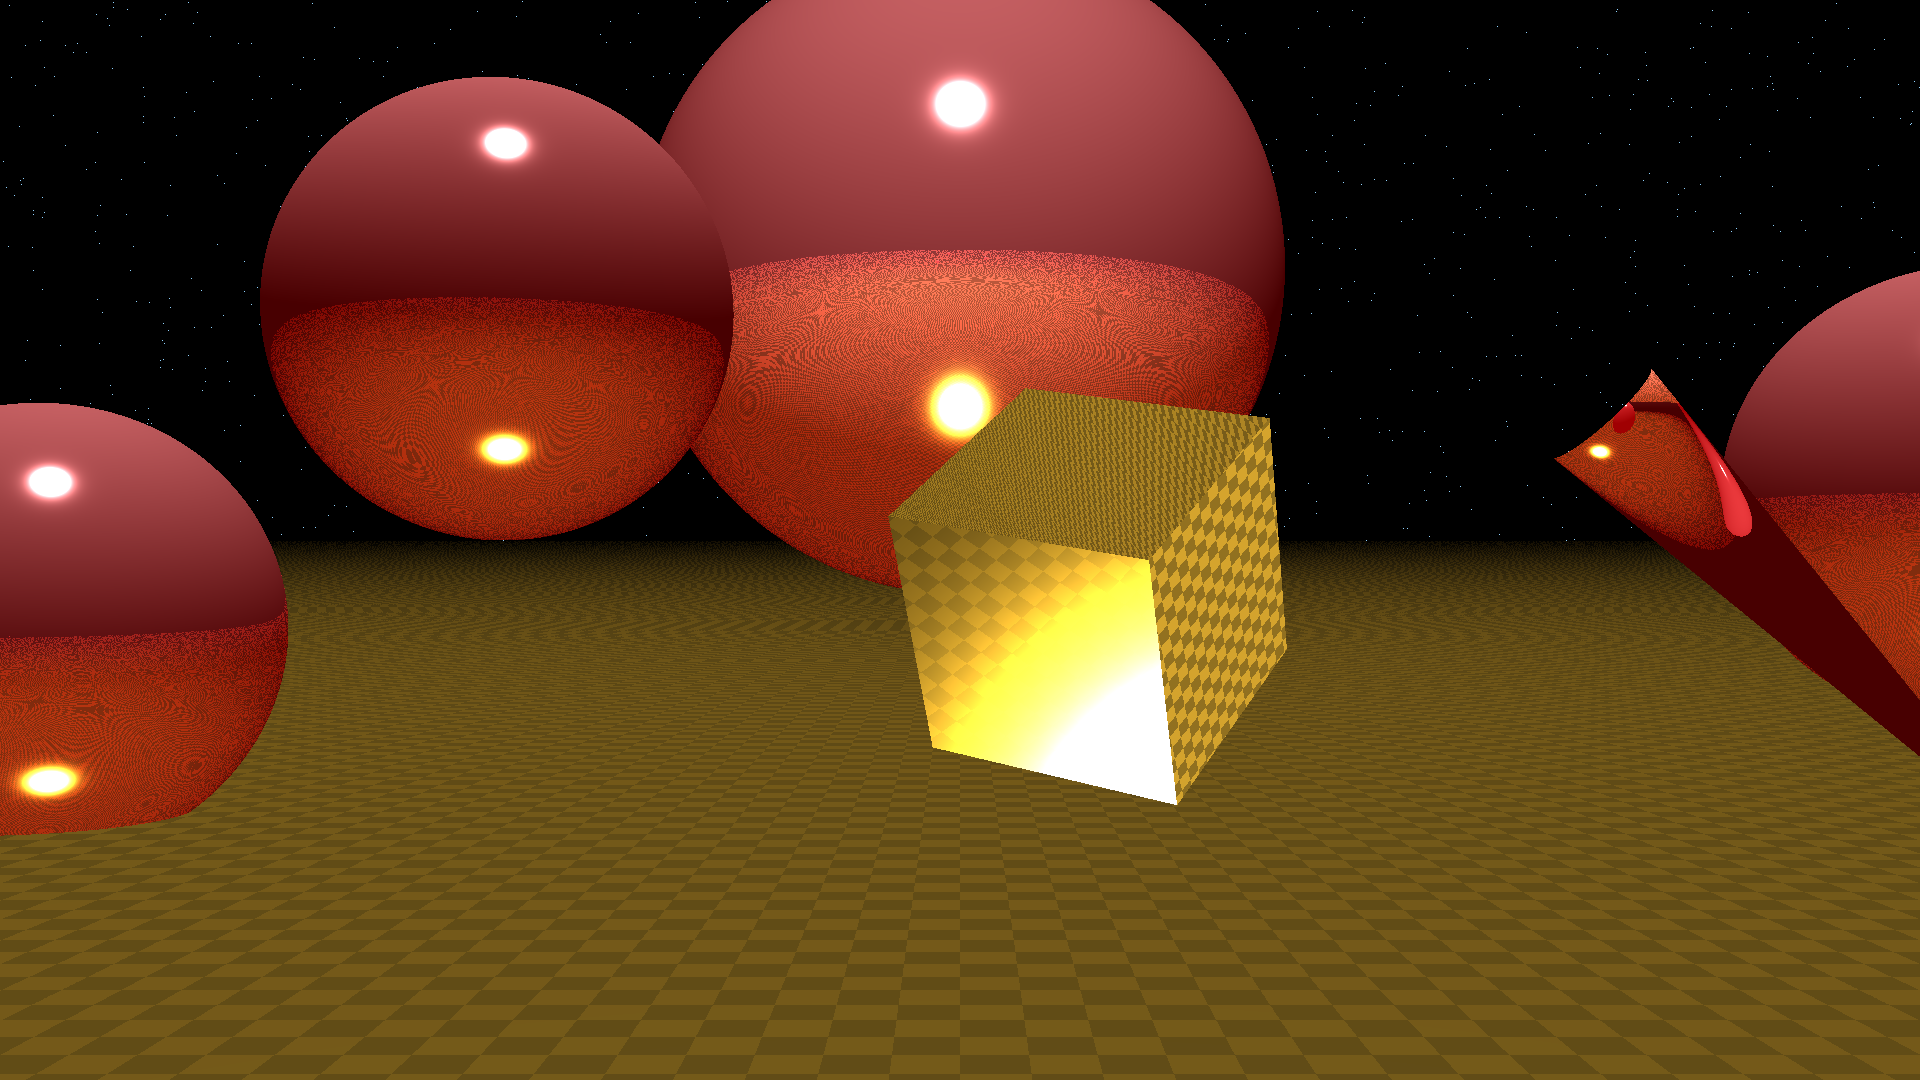
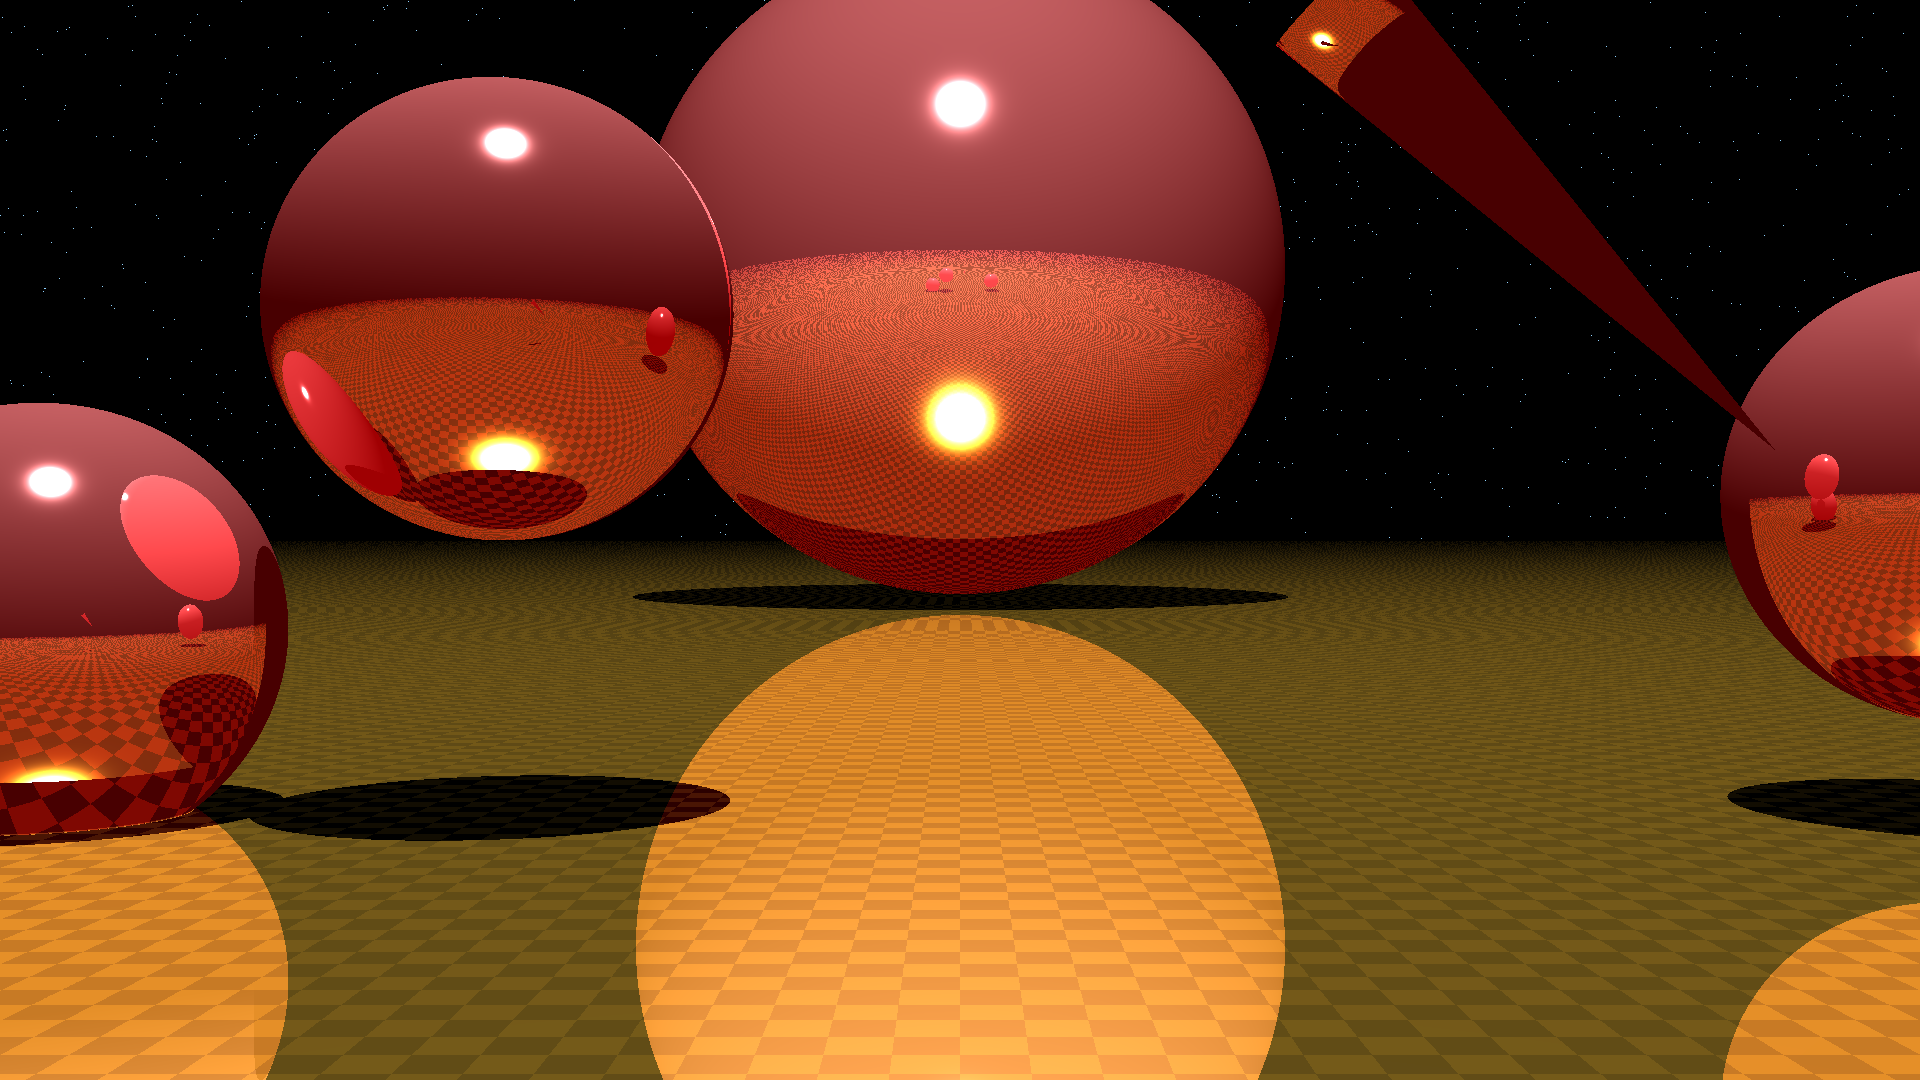
Reflections working correclty

diff --git a/src/main/Renderer.java b/src/main/Renderer.java
@@ -16,10 +16,10 @@ import java.util.Random;
 
 public class Renderer {
     private final double LIGHTSOURCEFACTOR = 0.1; // or a bit of contrast
-    private final double EPSILON = 700; // the difference that will be subtracted for shadowing
-    private final int MAXRECURSELEVEL = 1; // TODO: move to SDL parameter
+    private final double EPSILON = 0.01; // the difference that will be subtracted for shadowing
+    private final int MAXRECURSELEVEL = 5; // TODO: move to SDL parameter
     private final double DW = 0.1; // width lightbeam coming from source
-    private final boolean shadowsEnabled = false;
+    private final boolean shadowsEnabled = true;
 
     private final JFrame frame;
     private final double focallength, screenWidth, screenHeight;
@@ -222,7 +222,7 @@ public class Renderer {
         }
 
         // shadows
-        Vector start = Utility.subtract(hitpoint, Utility.multiplyElementWise(EPSILON, new Vector(normalVector)));
+        Vector start = Utility.sum(hitpoint, Utility.multiplyElementWise(EPSILON, new Vector(normalVector)));
 
         // for each lightsource
         for (Map.Entry<Vector, double[]> lightsource : scene.getLightsources().entrySet()) {
@@ -281,9 +281,6 @@ public class Renderer {
                 // calculate the Fresnel coeff
                 double angleOfIncidence = getAngle(s, normalVector);
 
-                if (Double.isNaN(angleOfIncidence))
-                    debug = 0;
-
                 // gRefractionSquaredRGB = g² = η² + c² - 1
                 double[] gRefractionSquaredRGB = new double[3];
                 for (int i = 0; i < 3; i++) {
@@ -341,16 +338,11 @@ public class Renderer {
                 Object reflectedObjectHit = objectIntersection.getObject();
                 Intersection reflectedIntersectionHit = objectIntersection.getIntersection();
 
-                if (currentObject instanceof Sphere) {
-                    debug = 0;
-                }
                 if (reflectedObjectHit != null && reflectedObjectHit != currentObject) {
                     double[] reflectedColors = getShading(reflection, reflectedObjectHit, reflectedIntersectionHit, rgb.clone(), recurseLevel, currentObject.getMaterial().getSpeedOfLight());
 
                     for (int i = 0; i < 3; i++)
                         rgb[i] += (float) (1 / recurseLevel) * currentObject.getMaterial().getShininess() * reflectedColors[i];
-                } else {
-                    debug = 0;
                 }
             }
 

diff --git a/src/main/sdl/SDL.java b/src/main/sdl/SDL.java
@@ -85,10 +85,10 @@ public class SDL {
 
             if (object != null) {
                 object.addTransformation(scale);
+                object.addTransformation(translation);
                 object.addTransformation(rotation);
                 if (object instanceof TaperedCylinder)
                     ((TaperedCylinder) object).setRatio(ratio);
-                object.addTransformation(translation);
                 object.setTexture(texture);
                 object.setMaterial(material);
                 objects.add(object);

diff --git a/src/main/Main.java b/src/main/Main.java
@@ -40,7 +40,7 @@ public class Main {
         scene.setCamera(camera);
 
         try {
-            scene.addObjects(SDL.parse("scenes/sdlOneObject.sdl"));
+            scene.addObjects(SDL.parse("scenes/sdlAllObjects.sdl"));
         } catch (IOException e) {
             System.out.println("Problem reading sdl");
         }
